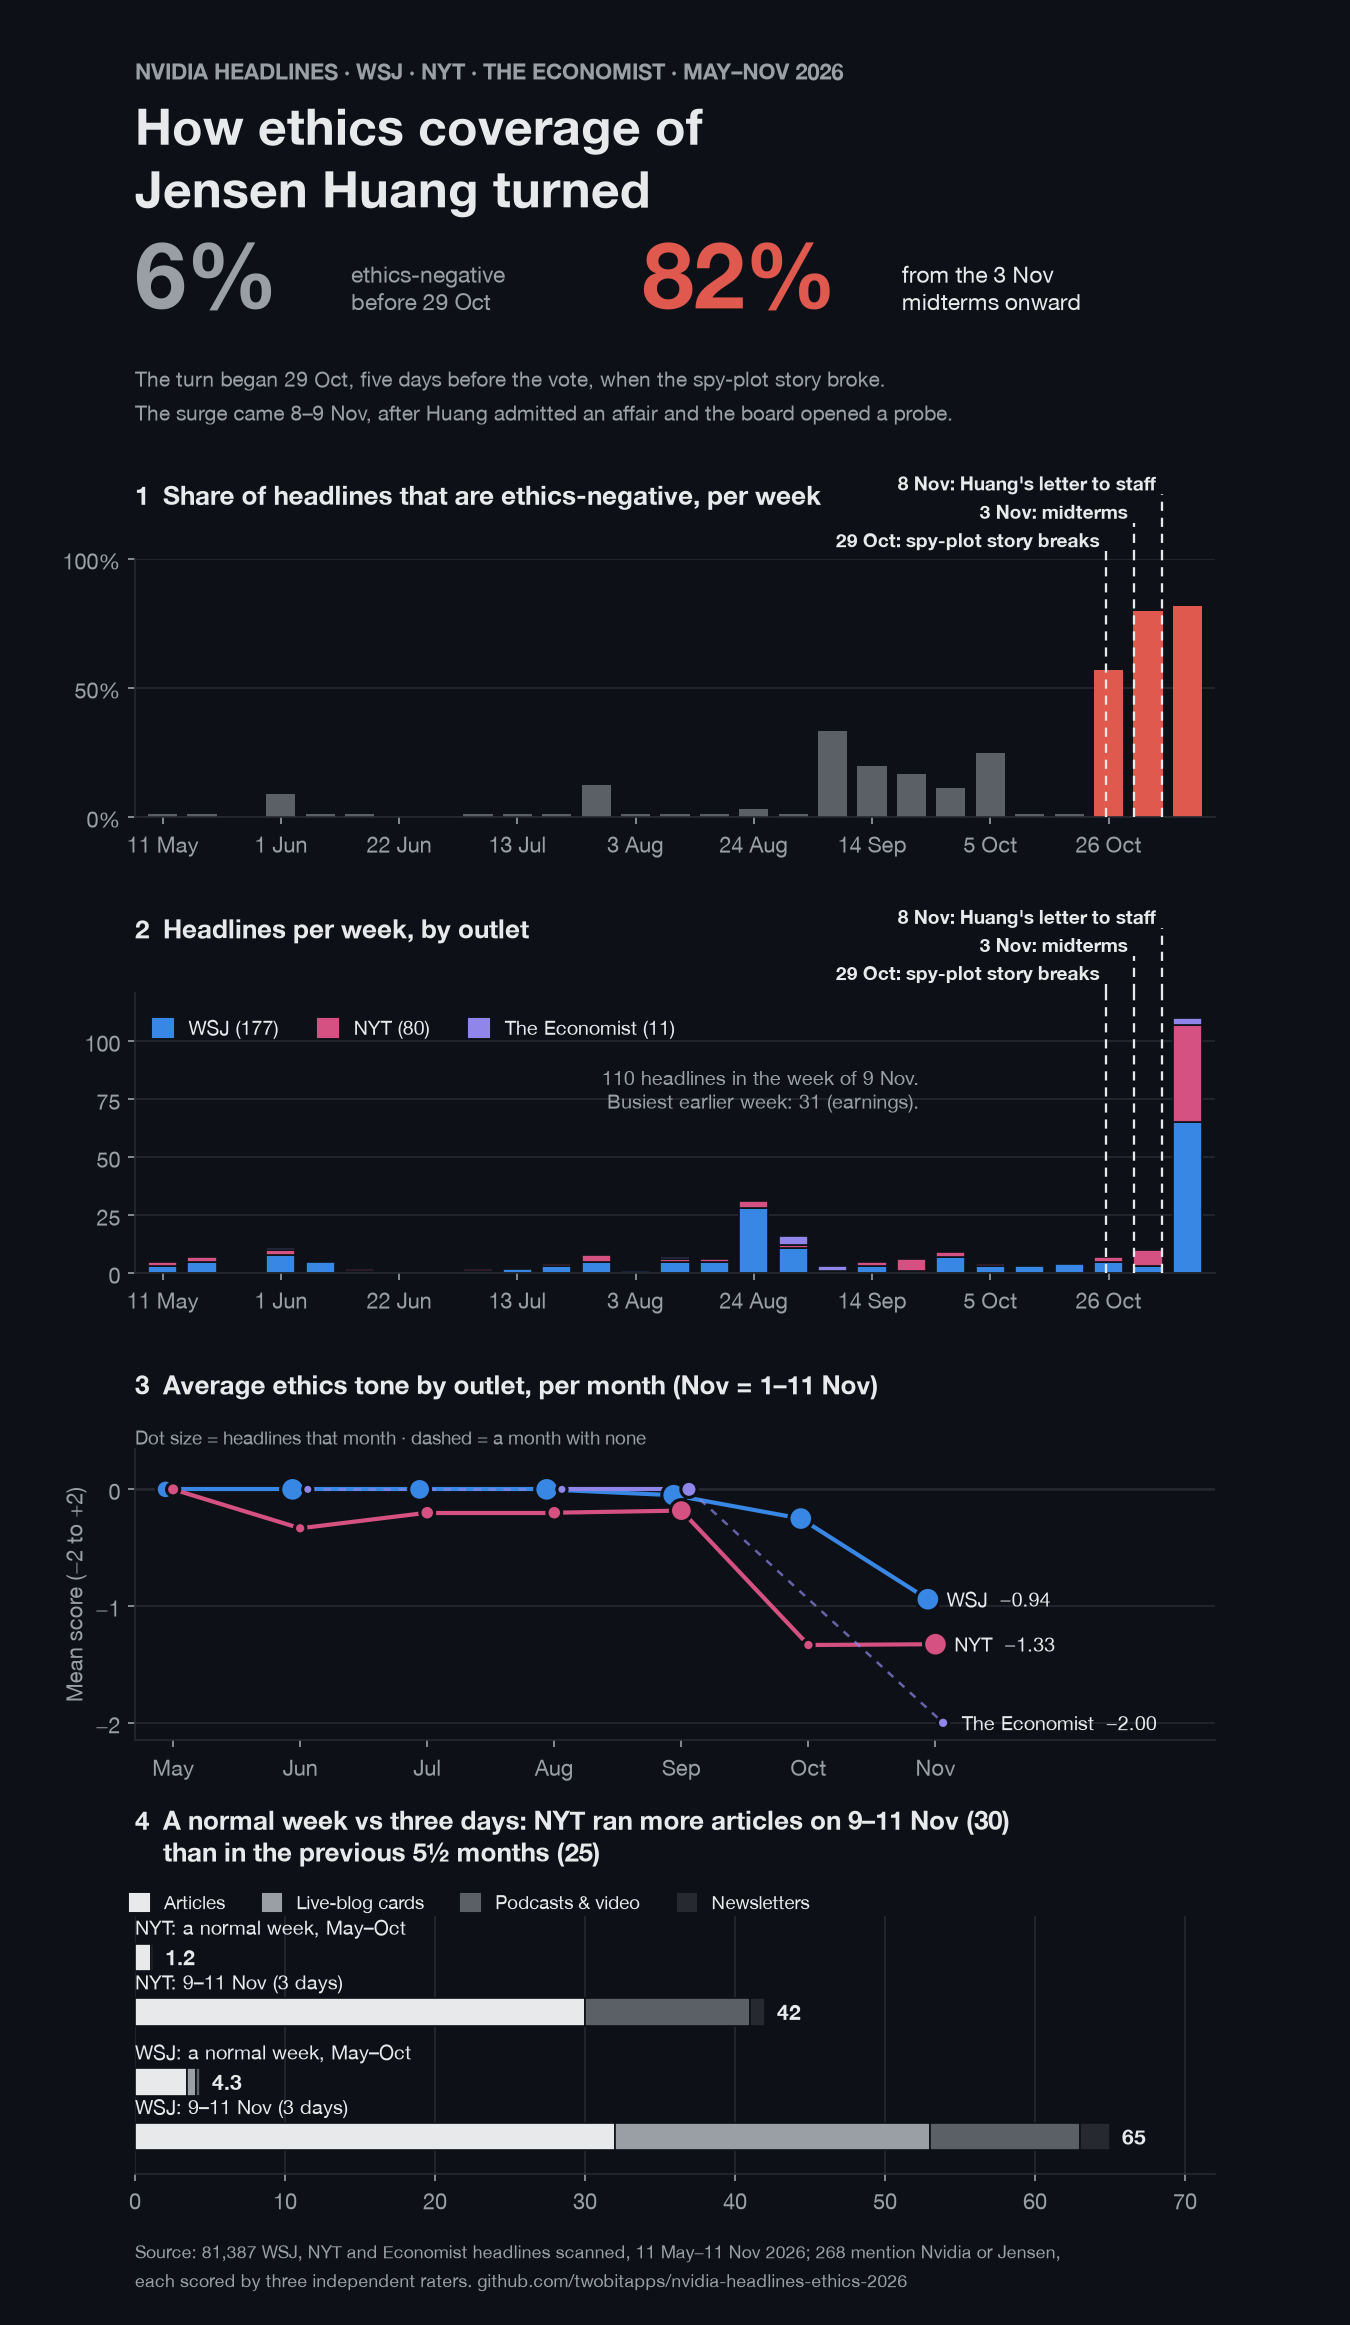
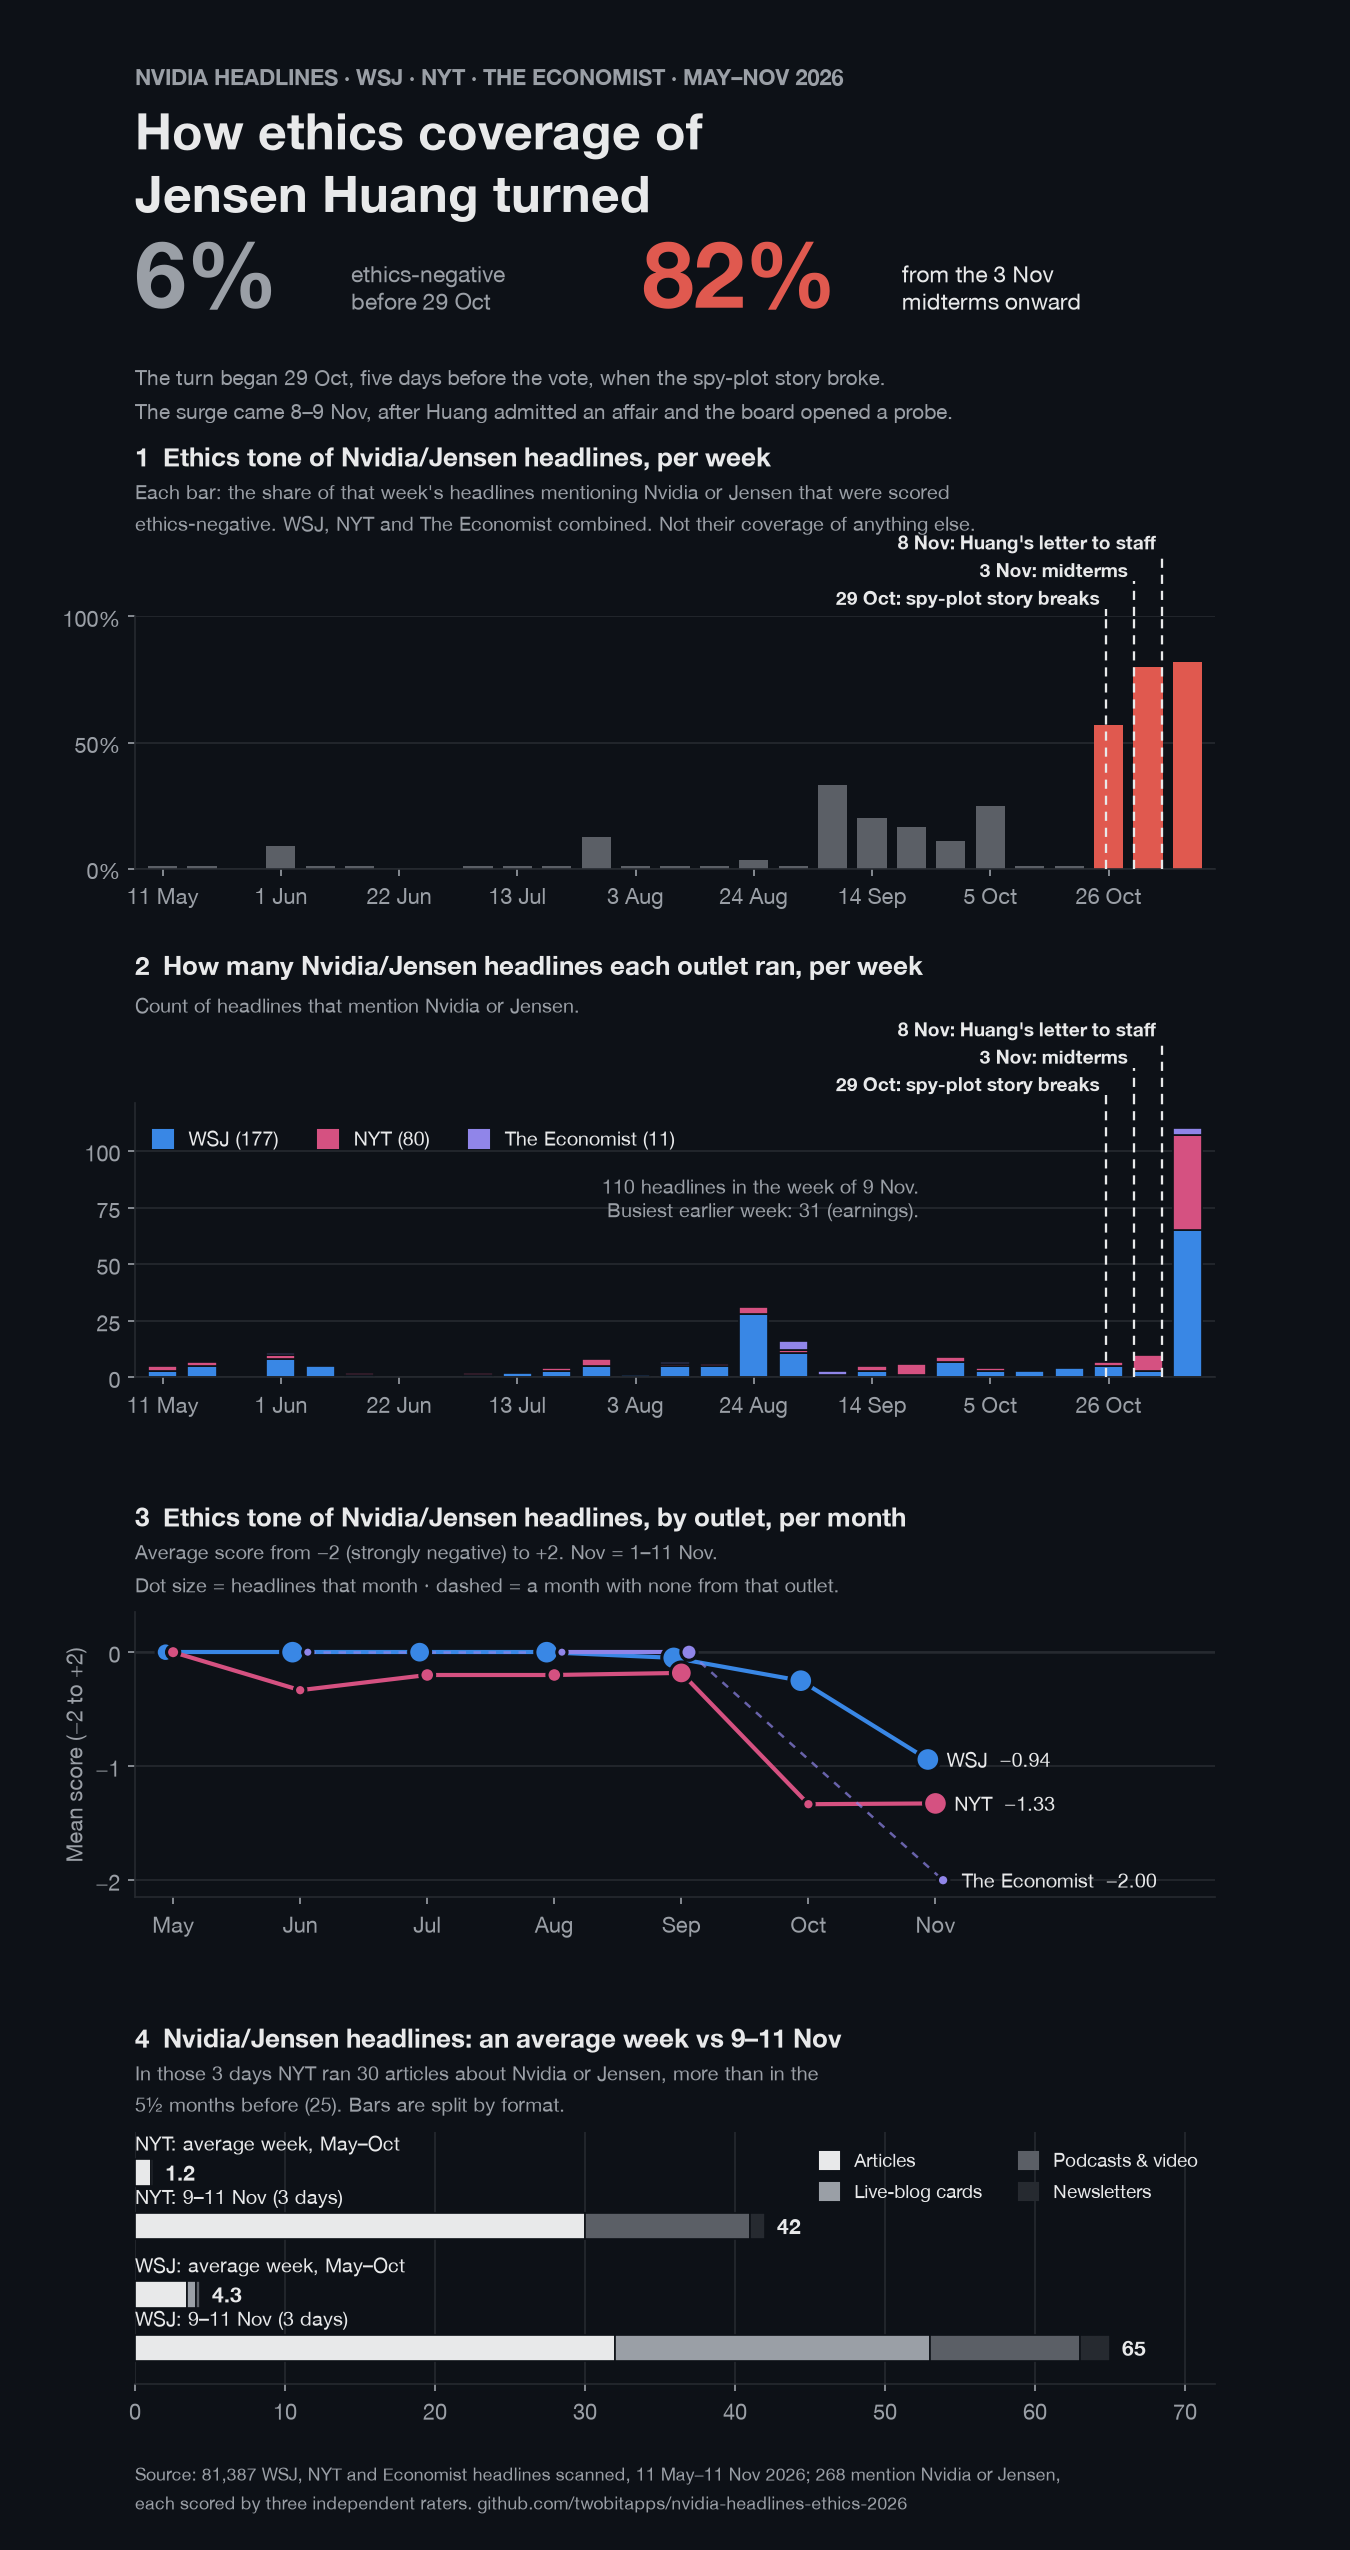
Combined image: say exactly what each panel counts
Every panel title now names Nvidia/Jensen headlines, with a line saying
what is counted. Panel 1 states it is the share of Nvidia/Jensen
headlines scored ethics-negative across WSJ, NYT and The Economist, not
their coverage of anything else.

diff --git a/scripts/analyze.py b/scripts/analyze.py
@@ -454,9 +454,9 @@ def content_kind(url):
 def poster(rows, summary, path):
     import matplotlib.gridspec as gridspec
     corpus = json.loads((ROOT / "data" / "corpus.json").read_text(encoding="utf-8"))
-    fig = plt.figure(figsize=(9, 15.5), dpi=150)
+    fig = plt.figure(figsize=(9, 17), dpi=150)
     gs = gridspec.GridSpec(5, 1, figure=fig, height_ratios=[1.45, 1.15, 1.25, 1.3, 1.15],
-                           hspace=0.62, left=0.1, right=0.9, top=0.975, bottom=0.065)
+                           hspace=0.85, left=0.1, right=0.9, top=0.975, bottom=0.065)
 
     # 1. header
     ax = fig.add_subplot(gs[0]); ax.axis("off")
@@ -474,8 +474,12 @@ def poster(rows, summary, path):
             "The surge came 8–9 Nov, after Huang admitted an affair and the board opened a probe.",
             transform=ax.transAxes, fontsize=10, color=T["muted"], va="top", linespacing=1.4)
 
-    def panel_title(ax, text):
-        ax.set_title(text, loc="left", fontsize=12.5, fontweight="bold", color=T["ink"], pad=26)
+    def panel_title(ax, text, sub, y):
+        """Bold title plus a muted line saying exactly what is counted; y = axes-fraction of the subtitle."""
+        ax.text(0, y, sub, transform=ax.transAxes, fontsize=9.5, color=T["muted"], va="bottom", linespacing=1.35)
+        n = sub.count("\n") + 1
+        ax.annotate(text, (0, y), xycoords="axes fraction", xytext=(0, 13.5 * n + 6), textcoords="offset points",
+                    fontsize=12.5, fontweight="bold", color=T["ink"], va="bottom", ha="left")
 
     # 2. weekly ethics-negative share
     ax = fig.add_subplot(gs[1])
@@ -489,8 +493,9 @@ def poster(rows, summary, path):
     ax.set_yticks([0, 0.5, 1], ["0%", "50%", "100%"])
     grid_y(ax); week_ticks(ax)
     events(ax, week_x, base=1.03, step=0.11, fontsize=9)
-    panel_title(ax, "1  Share of headlines that are ethics-negative, per week")
-    ax.title.set_position((0, 1.30))
+    panel_title(ax, "1  Ethics tone of Nvidia/Jensen headlines, per week",
+                "Each bar: the share of that week's headlines mentioning Nvidia or Jensen that were scored\n"
+                "ethics-negative. WSJ, NYT and The Economist combined. Not their coverage of anything else.", 1.30)
 
     # 3. volume by outlet
     ax = fig.add_subplot(gs[2])
@@ -512,8 +517,8 @@ def poster(rows, summary, path):
     ax.legend([plt.Rectangle((0, 0), 1, 1, color=T["outlet"][o]) for o in OUTLETS],
               [f"{o} ({totals[o]})" for o in OUTLETS], ncol=3, frameon=False, loc="upper left",
               bbox_to_anchor=(0, 0.98), fontsize=9.5, handlelength=1, handleheight=1)
-    panel_title(ax, "2  Headlines per week, by outlet")
-    ax.title.set_position((0, 1.30))
+    panel_title(ax, "2  How many Nvidia/Jensen headlines each outlet ran, per week",
+                "Count of headlines that mention Nvidia or Jensen.", 1.30)
 
     # 4. monthly tone by outlet
     ax = fig.add_subplot(gs[3])
@@ -540,9 +545,9 @@ def poster(rows, summary, path):
     ax.set_yticks([-2, -1, 0], ["−2", "−1", "0"])
     grid_y(ax)
     ax.set_ylabel("Mean score (−2 to +2)")
-    ax.text(0, 1.0, "Dot size = headlines that month · dashed = a month with none", transform=ax.transAxes,
-            fontsize=9, color=T["muted"], va="bottom")
-    panel_title(ax, "3  Average ethics tone by outlet, per month (Nov = 1–11 Nov)")
+    panel_title(ax, "3  Ethics tone of Nvidia/Jensen headlines, by outlet, per month",
+                "Average score from −2 (strongly negative) to +2. Nov = 1–11 Nov.\n"
+                "Dot size = headlines that month · dashed = a month with none from that outlet.", 1.04)
 
     # 5. normal week vs 9–11 Nov, by format
     ax = fig.add_subplot(gs[4])
@@ -554,7 +559,7 @@ def poster(rows, summary, path):
     for o in ["NYT", "WSJ"]:
         pre = [r for r in rows if r["outlet"] == o and r["date"] < date(2026, 10, 26)]
         surge = [r for r in rows if r["outlet"] == o and date(2026, 11, 9) <= r["date"] <= date(2026, 11, 11)]
-        for label, g, scale in ((f"{o}: a normal week, May–Oct", pre, pre_weeks), (f"{o}: 9–11 Nov (3 days)", surge, 1)):
+        for label, g, scale in ((f"{o}: average week, May–Oct", pre, pre_weeks), (f"{o}: 9–11 Nov (3 days)", surge, 1)):
             left = 0.0
             for kname, kc in zip(kinds, kind_col):
                 v = sum(content_kind(r["url"]) == kname for r in g) / scale
@@ -571,10 +576,11 @@ def poster(rows, summary, path):
     ax.spines["left"].set_visible(False)
     ax.xaxis.grid(True, color=T["grid"], lw=0.8); ax.set_axisbelow(True)
     ax.set_xlim(0, 72)
-    ax.legend([plt.Rectangle((0, 0), 1, 1, color=c) for c in kind_col], kinds, ncol=4, frameon=False,
-              loc="upper left", bbox_to_anchor=(-0.02, 1.16), fontsize=9, handlelength=1, handleheight=1)
-    panel_title(ax, "4  A normal week vs three days: NYT ran more articles on 9–11 Nov (30)\n    than in the previous 5½ months (25)")
-    ax.title.set_position((0, 1.12))
+    ax.legend([plt.Rectangle((0, 0), 1, 1, color=c) for c in kind_col], kinds, ncol=2, frameon=False,
+              loc="upper right", bbox_to_anchor=(1.0, 1.0), fontsize=9, handlelength=1, handleheight=1)
+    panel_title(ax, "4  Nvidia/Jensen headlines: an average week vs 9–11 Nov",
+                "In those 3 days NYT ran 30 articles about Nvidia or Jensen, more than in the\n"
+                "5½ months before (25). Bars are split by format.", 1.04)
 
     fig.text(0.1, 0.012,
              f"Source: {corpus['headlines_listed_total']:,} WSJ, NYT and Economist headlines scanned, 11 May–11 Nov 2026; "
